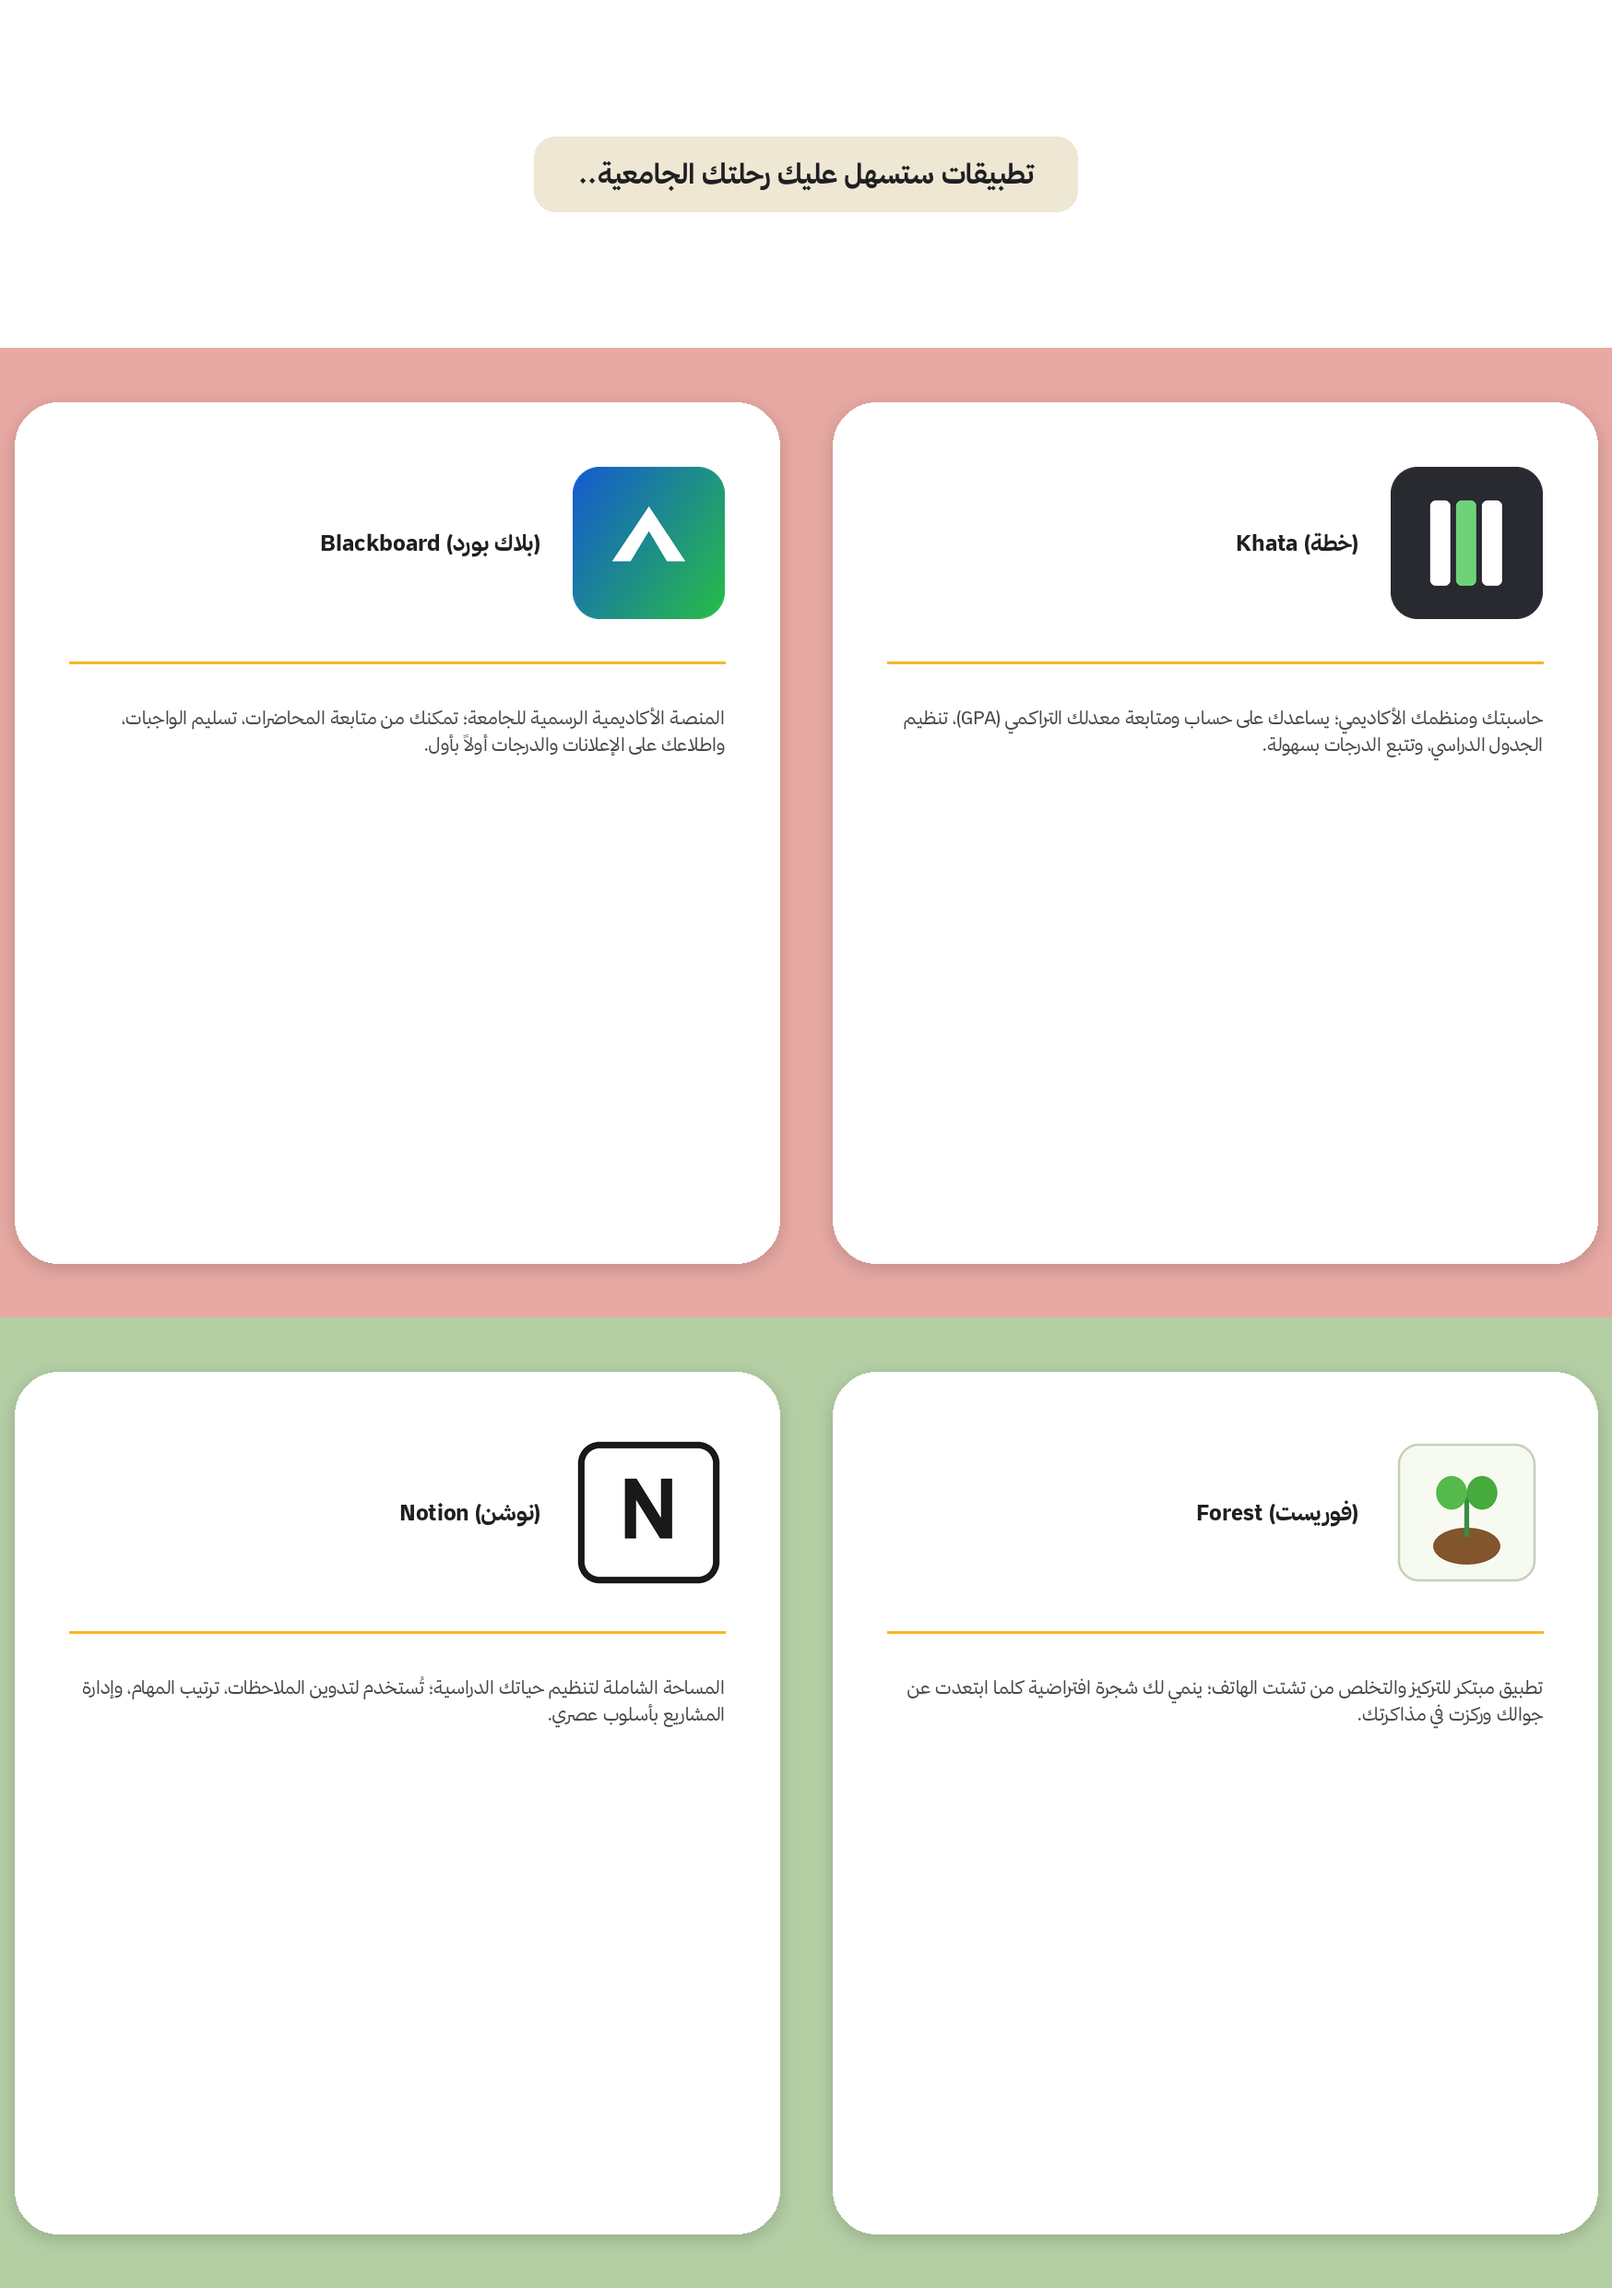
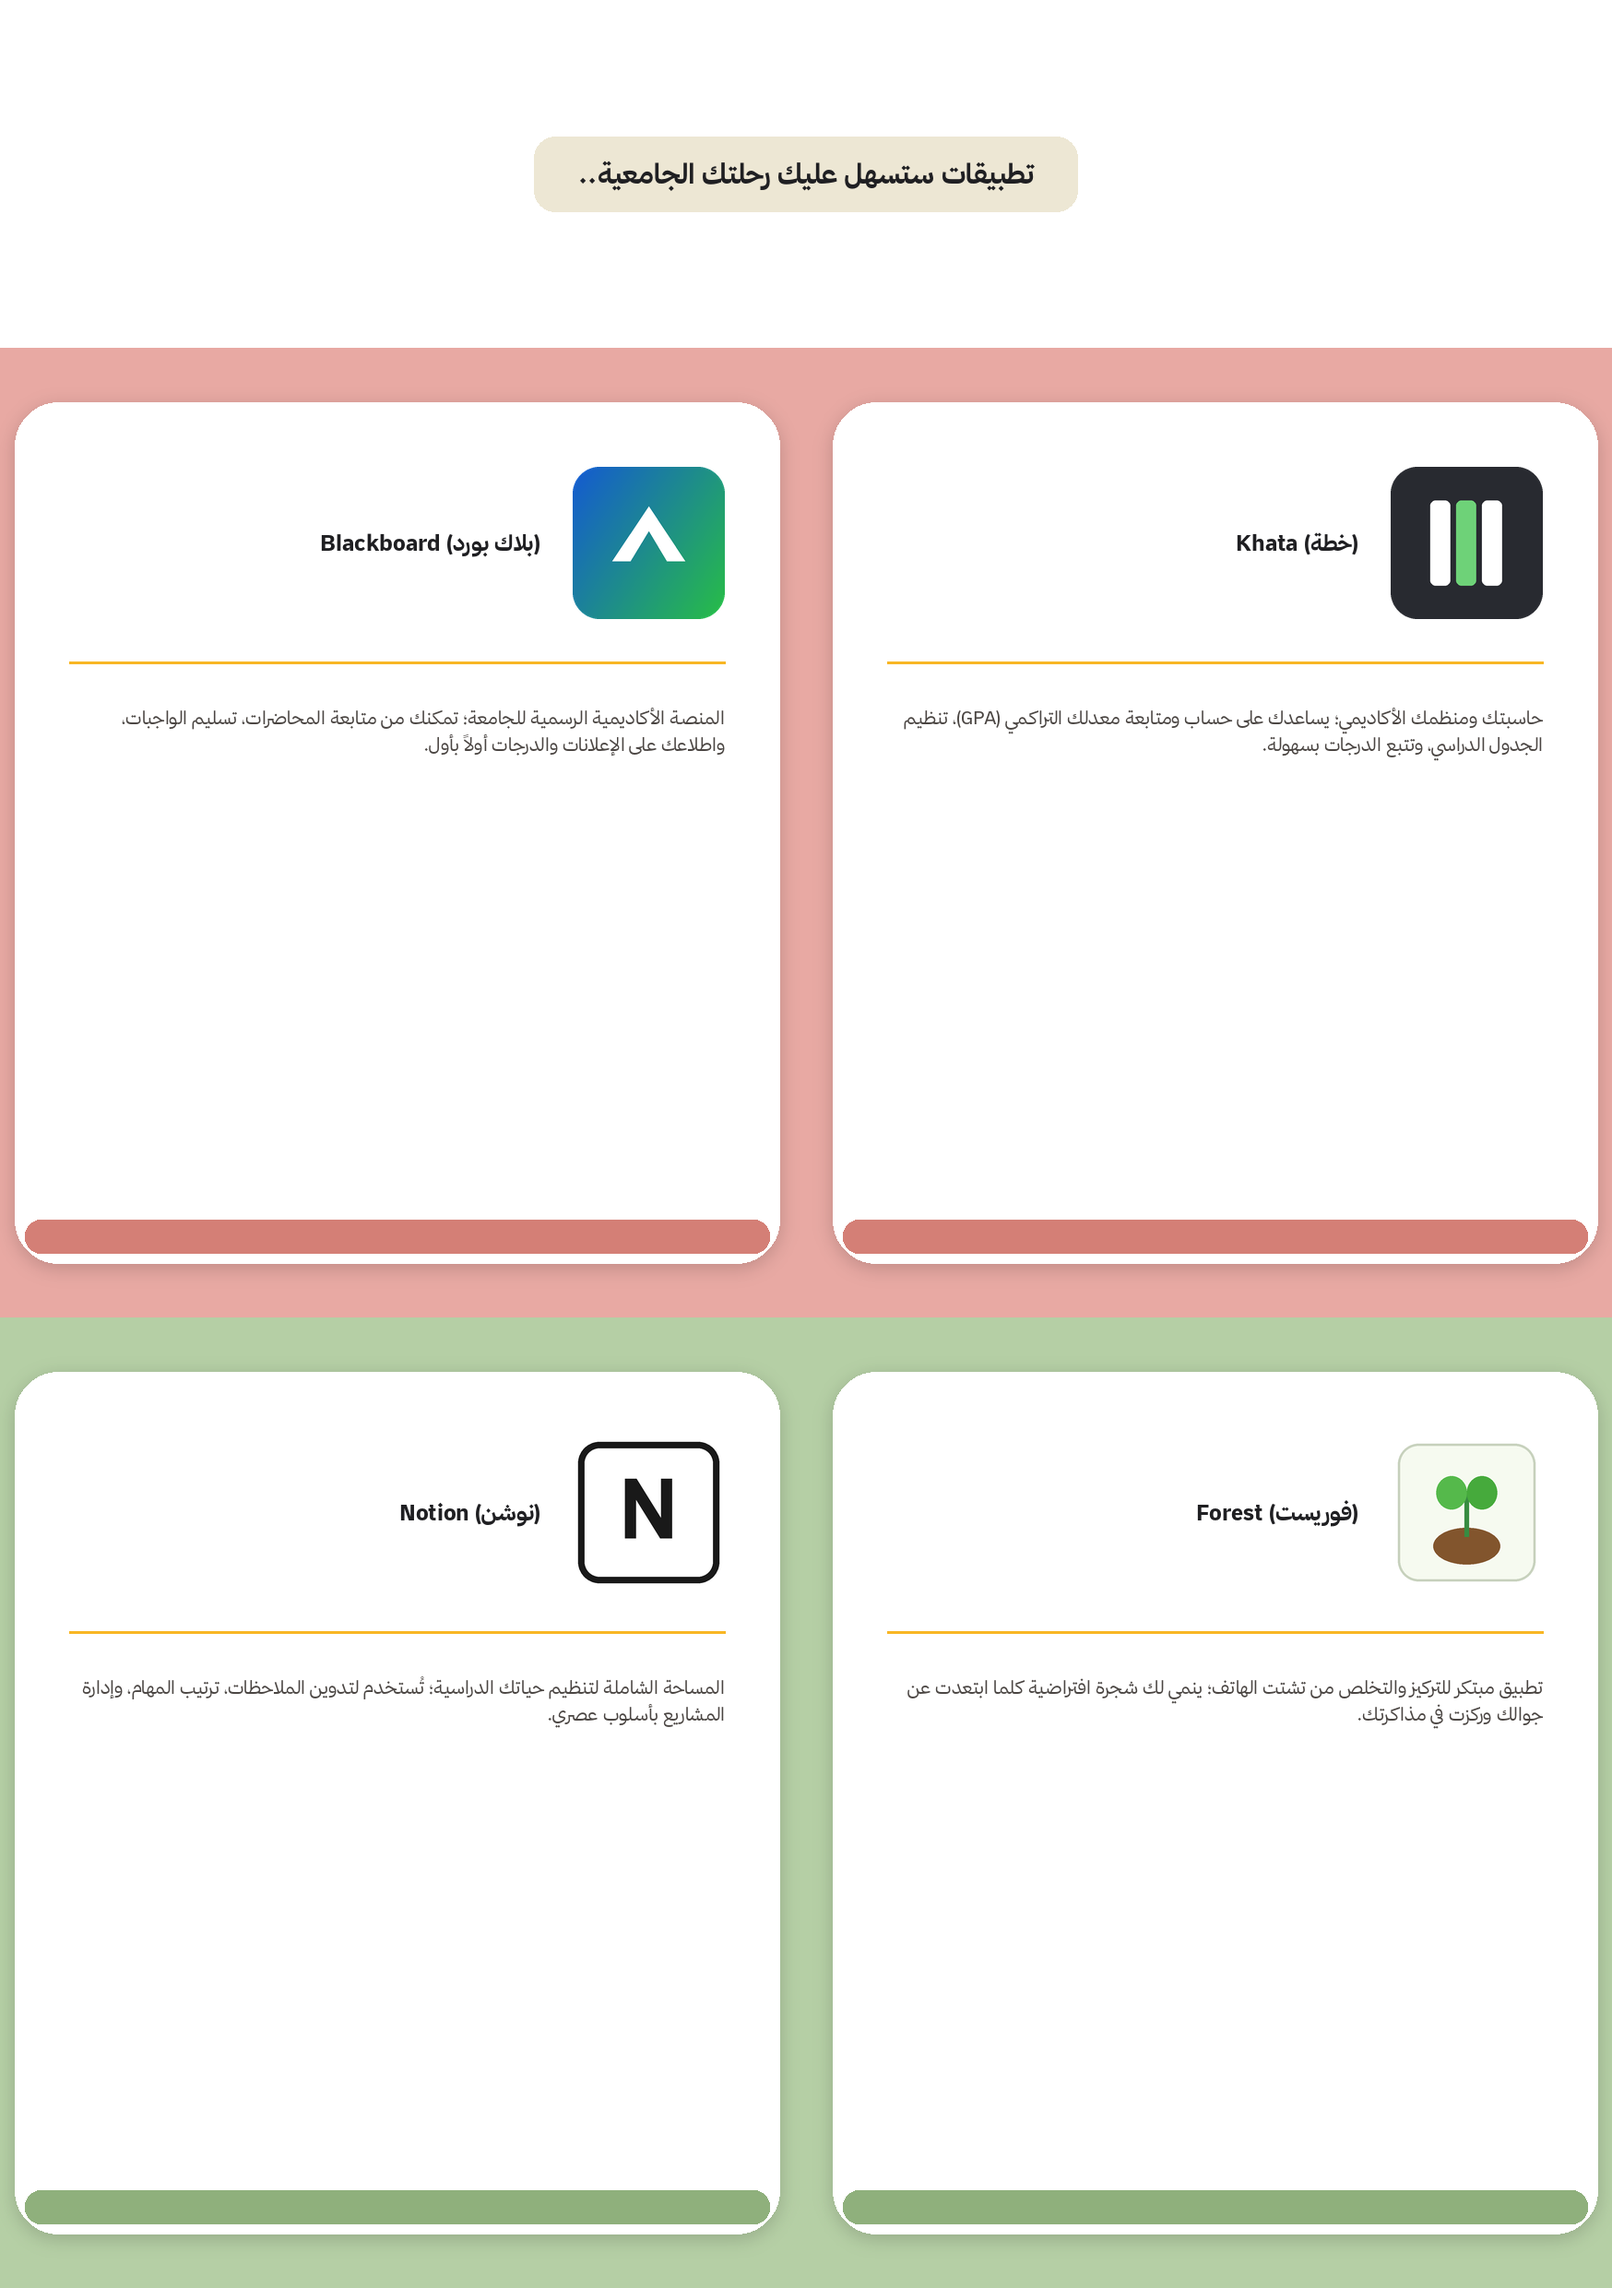
Enhance card design in build_images.py by adding a bottom accent strip and adjusting text wrapping margins for improved aesthetics. Update binary image assets for better visual quality.

diff --git a/build_images.py b/build_images.py
@@ -310,6 +310,10 @@ def page_apps():
         shadow_rect(img, box, radius=mm(4), fill=fill, shadow=14, blur=10, offset=(0, 5))
         d = ImageDraw.Draw(img)
         x0, y0, x1, y1 = box
+        # bottom accent strip inside card
+        accent = CORAL_DEEP if y0 < mid else SAGE_DEEP
+        d.rounded_rectangle([x0 + mm(1), y1 - mm(4), x1 - mm(1), y1 - mm(1)], radius=mm(1.5), fill=accent)
+
         icon_s = mm(14)
         ix1, iy0 = x1 - mm(5), y0 + mm(6)
         paste(img, icon, (ix1 - icon_s, iy0, ix1, iy0 + icon_s))
@@ -322,7 +326,7 @@ def page_apps():
         )
         wrap(
             d,
-            (x0 + mm(5), iy0 + icon_s + mm(8), x1 - mm(5), y1 - mm(5)),
+            (x0 + mm(5), iy0 + icon_s + mm(8), x1 - mm(5), y1 - mm(8)),
             body,
             fnt("regular", 20),
             MUTED,
